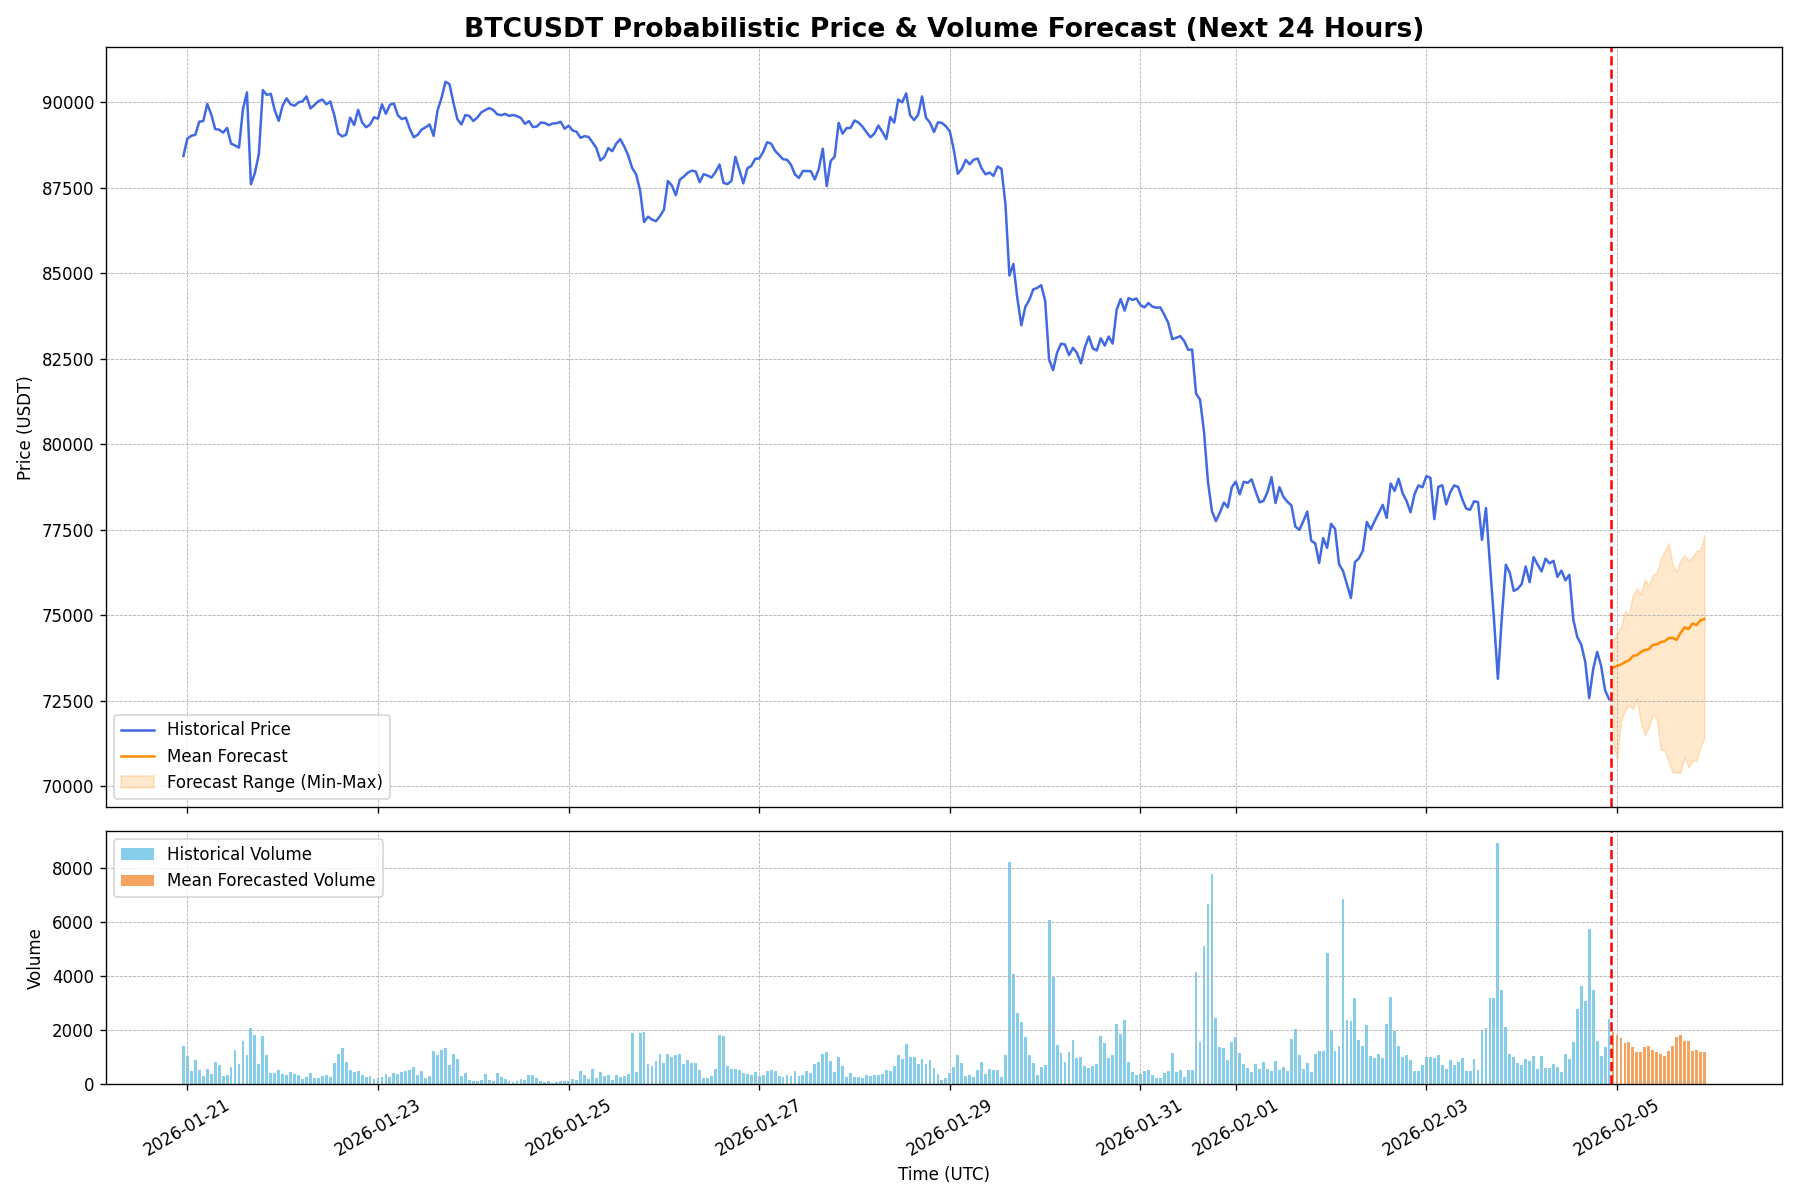
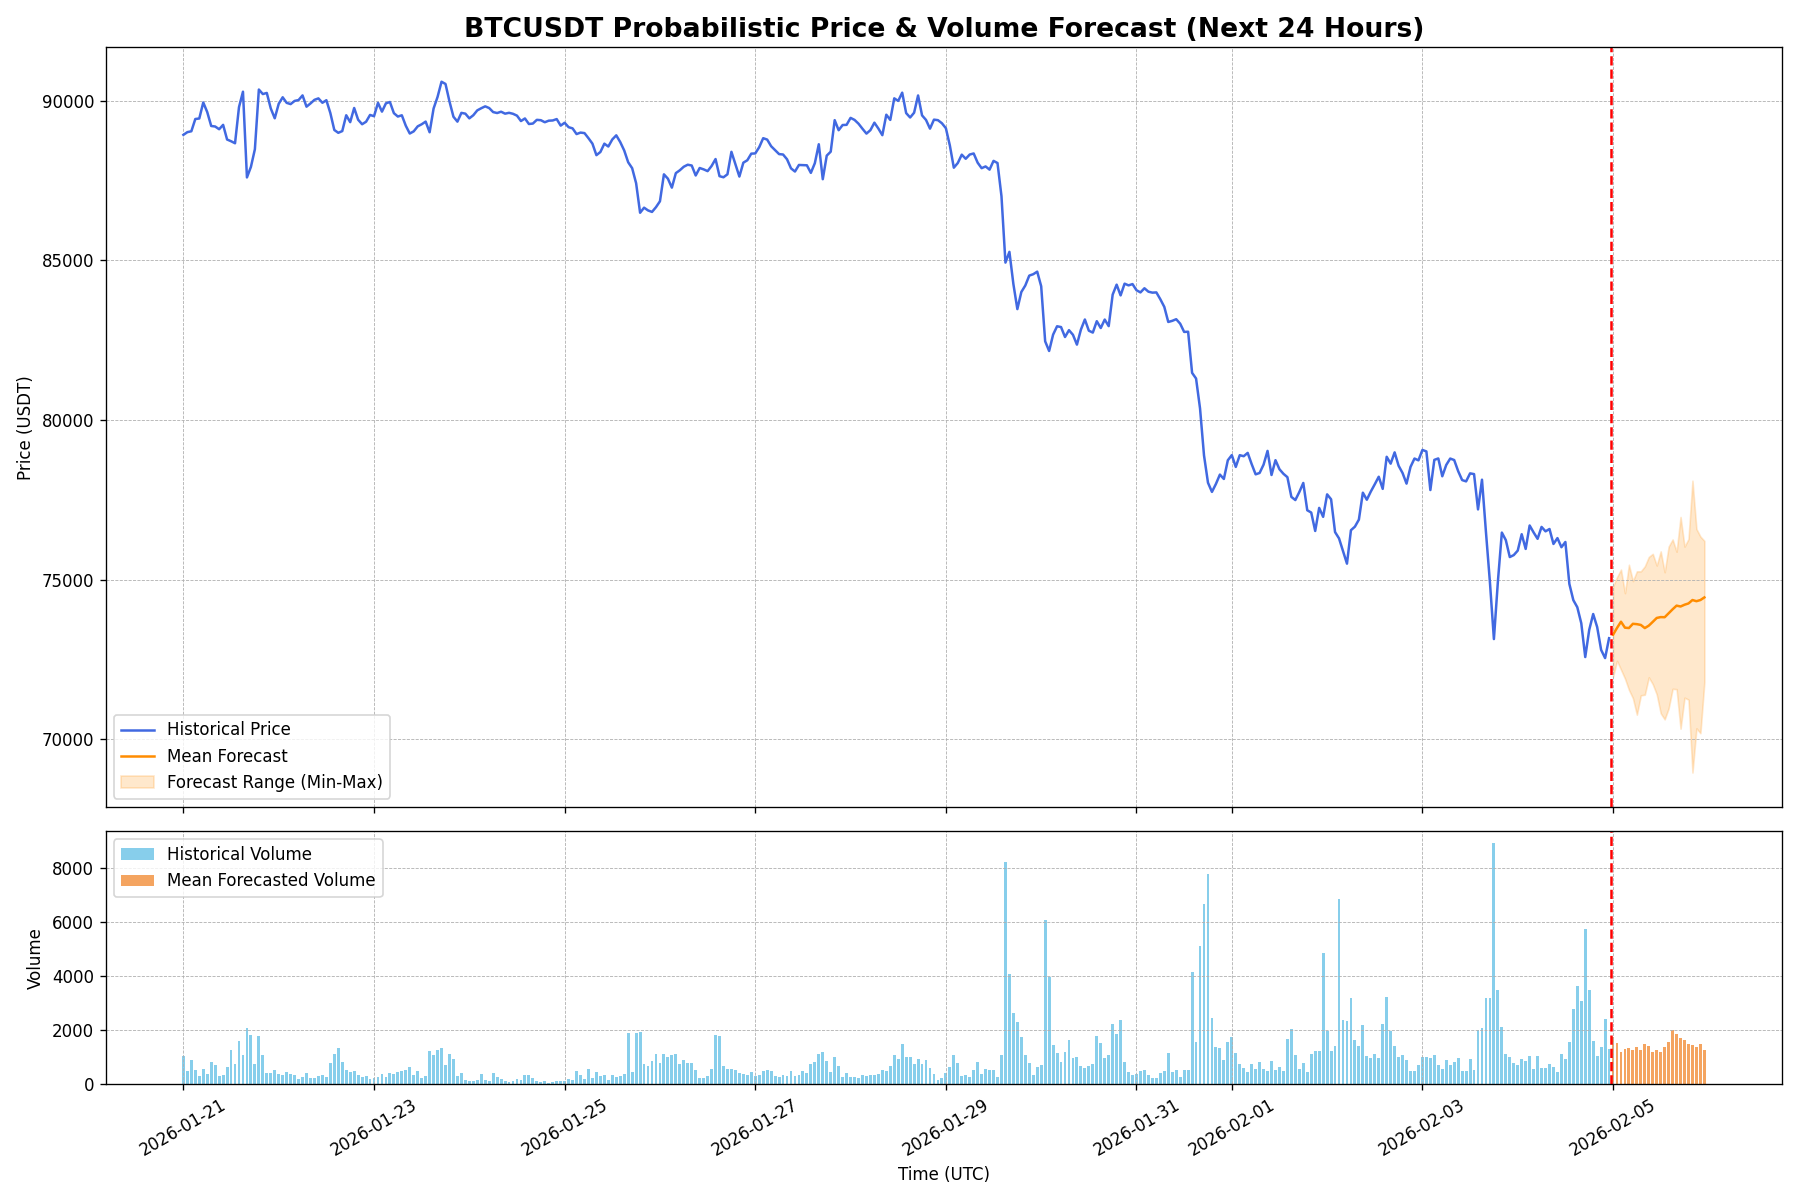
Auto-update forecast for 2026-02-05 00:00 UTC

diff --git a/index.html b/index.html
@@ -22,19 +22,19 @@
         <section id="live-dashboard">
             <h2>Live BTC/USDT Forecast Dashboard</h2>
             <div class="metadata">
-                <span>Last Updated (UTC): <strong id="update-time">2026-02-04 23:00:25</strong></span>
+                <span>Last Updated (UTC): <strong id="update-time">2026-02-05 00:00:25</strong></span>
                 <span>Data Source: Binance | Interval: 1-Hour</span>
             </div>
 
             <div class="metrics-container">
                 <div class="metric-card">
                     <h3>Upside Probability (Next 24h)</h3>
-                    <p class="metric-value" id="upside-prob">96.7%</p>
+                    <p class="metric-value" id="upside-prob">86.7%</p>
                     <div class="metric-desc">The model's confidence that the price in 24 hours will be higher than the last known price.</div>
                 </div>
                 <div class="metric-card">
                     <h3>Volatility Amplification (Next 24h)</h3>
-                    <p class="metric-value" id="vol-amp-prob">36.7%</p>
+                    <p class="metric-value" id="vol-amp-prob">33.3%</p>
                     <div class="metric-desc">The probability that predicted volatility over the next 24h will exceed recent historical volatility.</div>
                 </div>
             </div>
